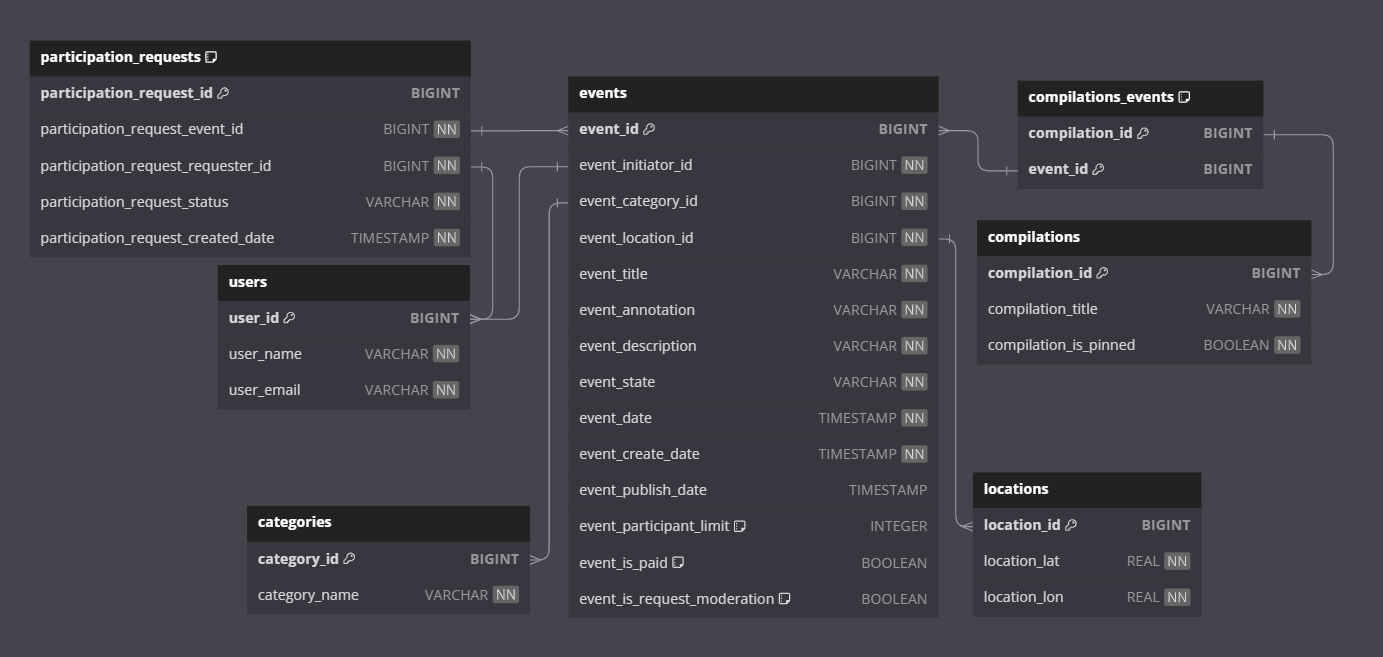
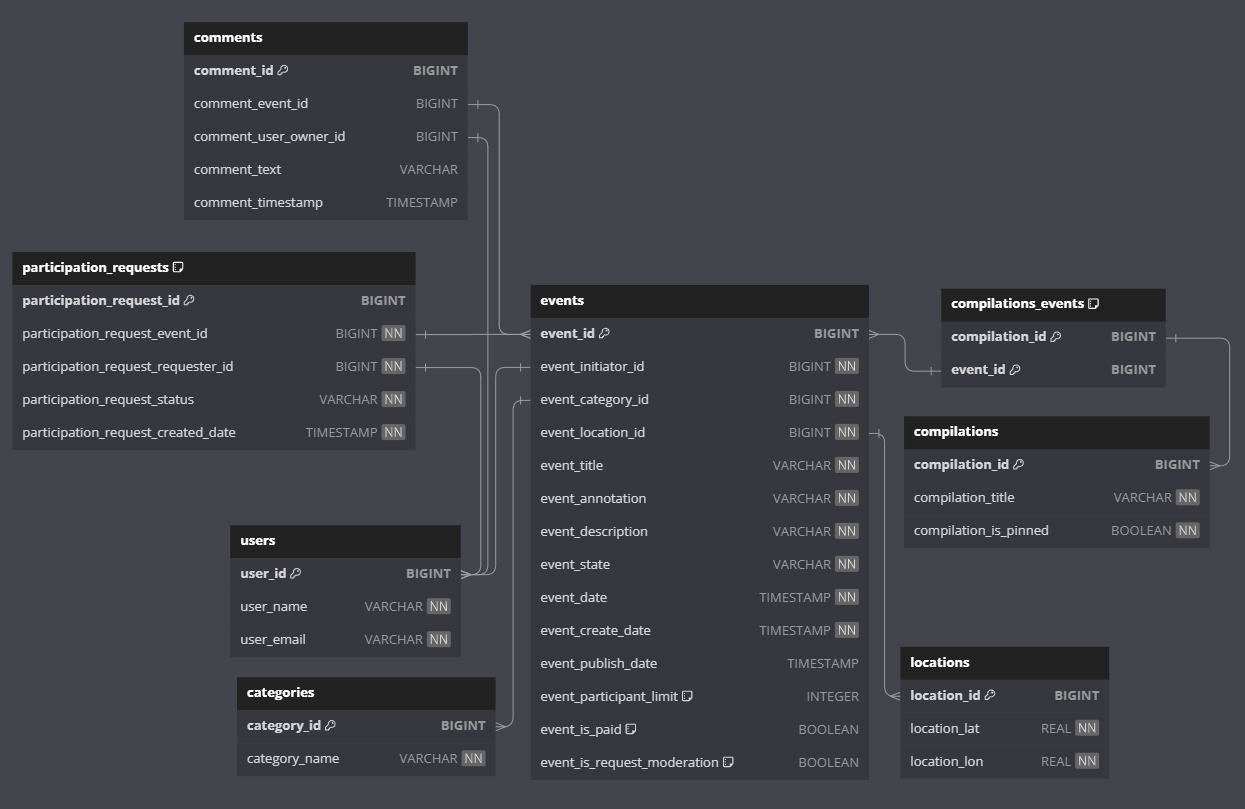
readme update

diff --git a/README.md b/README.md
@@ -42,12 +42,23 @@ To get started with ExploreWithMe, follow these steps:
 3. Set up and configure each module as needed.
 4. Build and run the application.
 
+## Additional feature
+
+Additional application functionality - comments:
+
+1. Registered users can leave comments on events.
+2. Viewing comments on an event is available to all users.
+3. Comment authors and administrators can edit or delete comments.
+
 ## Postman test collections
 
 ### stats-server detached
 
-https://github.com/AlexeyShary/java-explore-with-me/blob/main-svc/Tests%20for%20detatched%20stats%20service.postman_collection.json
-
+https://github.com/AlexeyShary/java-explore-with-me/blob/feature_comments/postman/Tests%20for%20detatched%20stats%20service.postman_collection.json
 ### main service + stats service
 
-https://github.com/AlexeyShary/java-explore-with-me/blob/main-svc/Test%20Explore%20With%20Me%20-%20Main%20service.postman_collection.json
+https://github.com/AlexeyShary/java-explore-with-me/blob/feature_comments/postman/Test%20Explore%20With%20Me%20-%20Main%20service.postman_collection.json
+
+### main service - comments
+
+https://github.com/AlexeyShary/java-explore-with-me/blob/feature_comments/postman/feature.json
